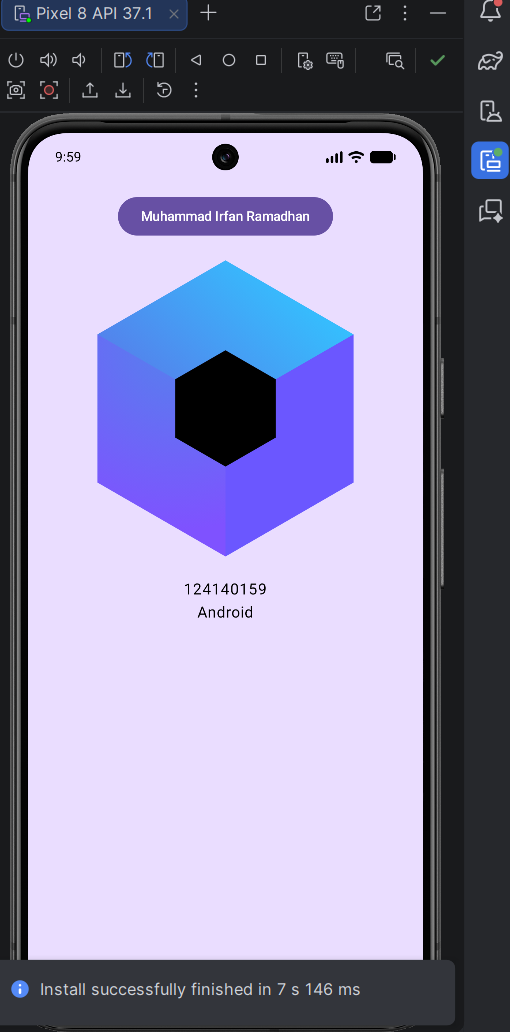
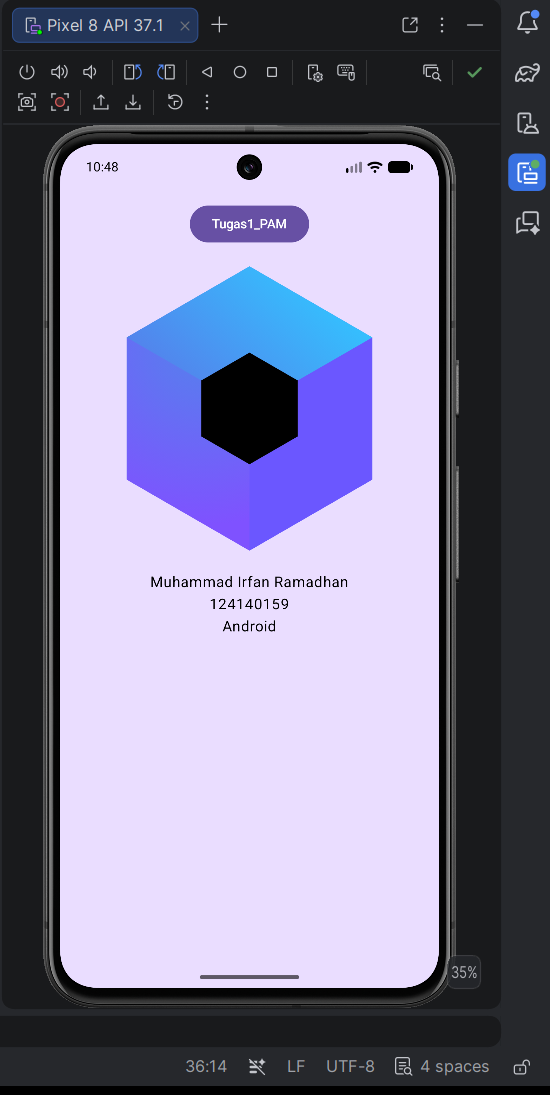
perbaikan 1

diff --git a/shared/src/commonMain/kotlin/com/example/irfan_159_tugas1_pam/App.kt b/shared/src/commonMain/kotlin/com/example/irfan_159_tugas1_pam/App.kt
@@ -32,7 +32,7 @@ fun App() {
             horizontalAlignment = Alignment.CenterHorizontally,
         ) {
             Button(onClick = { showContent = !showContent }) {
-                Text("Muhammad Irfan Ramadhan")
+                Text("Tugas1_PAM")
             }
             AnimatedVisibility(showContent) {
                 val greeting = remember { Greeting().greet() }
@@ -41,6 +41,7 @@ fun App() {
                     horizontalAlignment = Alignment.CenterHorizontally,
                 ) {
                     Image(painterResource(Res.drawable.compose_multiplatform), null)
+                    Text("Muhammad Irfan Ramadhan")
                     Text("124140159")
                     Text("Android")
                 }
